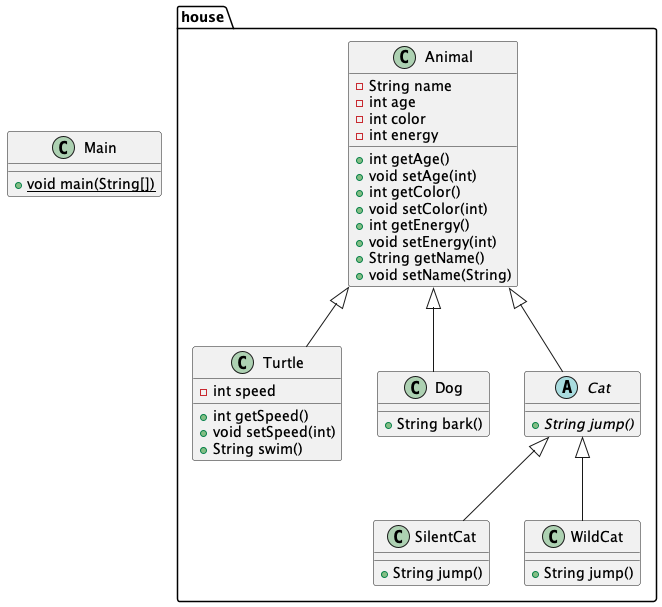
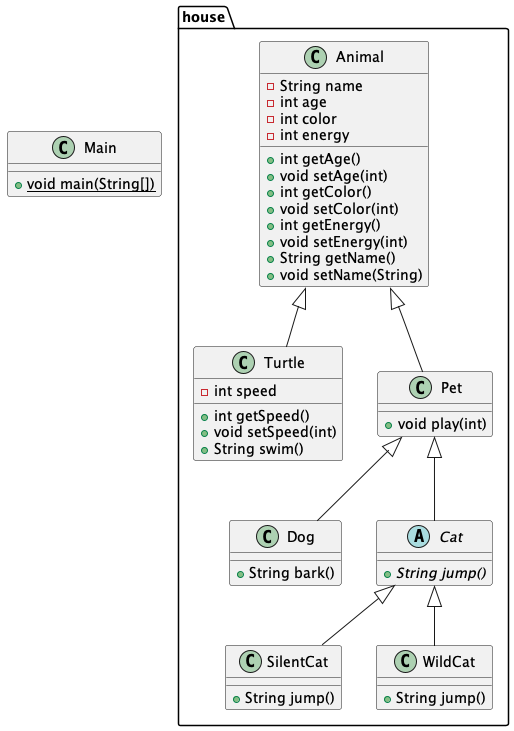
feat: add Pet class

Changed region(s): [[0.0, 0.0, 0.9961, 1.0], [0.7782, 0.1779, 0.8405, 0.2076]]

diff --git a/clase_08/src/Main.java b/clase_08/src/Main.java
@@ -41,5 +41,9 @@ public class Main {
         System.out.println(bolaDeNieve.getName() + " " + bolaDeNieve.jump());
         System.out.println(donatelo.getName() + " " + donatelo.swim());
         System.out.println(firulais.bark());
+
+
+        miMichi.play(2);
+        firulais.play(2);
     }
 }

diff --git a/clase_08/src/house/Dog.java b/clase_08/src/house/Dog.java
@@ -1,6 +1,6 @@
 package house;
 
-public class Dog extends Animal {
+public class Dog extends Pet {
     public String bark() {
         return "Gua gua";
     }

diff --git a/clase_08/src/house/Cat.java b/clase_08/src/house/Cat.java
@@ -1,5 +1,5 @@
 package house;
 
-public abstract class Cat extends Animal{
+public abstract class Cat extends Pet{
     public abstract String jump();
 }

diff --git a/clase_08/src/house/Pet.java b/clase_08/src/house/Pet.java
@@ -1,0 +1,7 @@
+package house;
+
+public class Pet extends Animal{
+    public void play(int time) {
+        return;
+    }
+}
